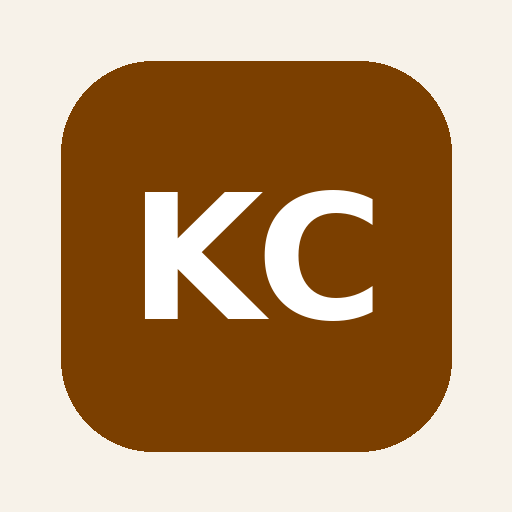
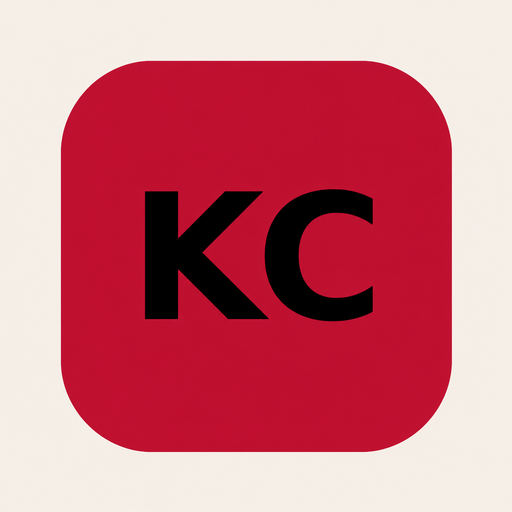
Add files via upload

diff --git a/index.html b/index.html
@@ -8,10 +8,10 @@
   <meta name="apple-mobile-web-app-status-bar-style" content="default">
   <meta name="apple-mobile-web-app-title" content="Kitchen Companion">
   <meta http-equiv="Cache-Control" content="no-cache, no-store, must-revalidate">
-  <link rel="manifest" href="app.webmanifest?v=0.12.9">
-  <link rel="apple-touch-icon" href="icon-180.png?v=0.12.9">
+  <link rel="manifest" href="app.webmanifest?v=0.12.10">
+  <link rel="apple-touch-icon" href="icon-180.png?v=0.12.10">
   <title>Kitchen Companion</title>
-  <link rel="stylesheet" href="styles.css?v=0.12.9">
+  <link rel="stylesheet" href="styles.css?v=0.12.10">
 </head>
 <body>
   <div class="app-shell">
@@ -139,7 +139,7 @@
 
   <dialog id="settingsDialog">
     <form method="dialog" class="dialog-card">
-      <h2>Settings</h2><div class="version-card"><strong>Kitchen Companion</strong><span>Engine version <b id="engineVersionLabel">0.12.9</b></span><span>Module format 1.x</span><button type="button" id="forceUpdateBtn" class="button secondary">Check for app update</button></div>
+      <h2>Settings</h2><div class="version-card"><strong>Kitchen Companion</strong><span>Engine version <b id="engineVersionLabel">0.12.10</b></span><span>Module format 1.x</span><button type="button" id="forceUpdateBtn" class="button secondary">Check for app update</button></div>
 
       <div class="setting-block">
         <strong>Profiles</strong>
@@ -423,9 +423,9 @@
   </template>
 
   <script src="https://cdn.jsdelivr.net/npm/tesseract.js@7.0.0/dist/tesseract.min.js"></script>
-  <script src="kitchen-engine.js?v=0.12.9"></script>
-  <script src="profile-storage.js?v=0.12.9"></script>
-  <script src="app.js?v=0.12.9"></script>
-  <script src="ocr-service.js?v=0.12.9"></script>
+  <script src="kitchen-engine.js?v=0.12.10"></script>
+  <script src="profile-storage.js?v=0.12.10"></script>
+  <script src="app.js?v=0.12.10"></script>
+  <script src="ocr-service.js?v=0.12.10"></script>
 </body>
 </html>

diff --git a/app.js b/app.js
@@ -2,7 +2,7 @@
   'use strict';
 
   const STORAGE_KEY = 'recipeEngineState.v1';
-  const ENGINE_VERSION = '0.12.9';
+  const ENGINE_VERSION = '0.12.10';
   const engine = new KitchenCompanionEngine();
   const MODULE_CATALOG_URL = './catalog.json';
   const builtInModule = {
@@ -819,7 +819,7 @@
 
   function registerServiceWorker() {
     if (!('serviceWorker' in navigator)) return;
-    navigator.serviceWorker.register('./service-worker.js?v=0.12.9').then(reg => reg.update()).catch(console.warn);
+    navigator.serviceWorker.register('./service-worker.js?v=0.12.10').then(reg => reg.update()).catch(console.warn);
     navigator.serviceWorker.addEventListener('controllerchange', () => {
       if (!sessionStorage.getItem('kc-reloaded')) {
         sessionStorage.setItem('kc-reloaded','1');
@@ -1374,7 +1374,7 @@ The recipe remains installed and can be restored from Settings → Hidden Recipe
   function formatClock(ms) { const total=Math.ceil(ms/1000), h=Math.floor(total/3600), m=Math.floor((total%3600)/60), s=total%60; return h?`${h}:${String(m).padStart(2,'0')}:${String(s).padStart(2,'0')}`:`${m}:${String(s).padStart(2,'0')}`; }
 
   function initBellAudio() {
-    bellAudio = new Audio('./alarm-bell.wav?v=0.12.9');
+    bellAudio = new Audio('./alarm-bell.wav?v=0.12.10');
     bellAudio.loop = true;
     bellAudio.preload = 'auto';
     bellAudio.volume = Number(state.settings.alarmVolume ?? 0.85);

diff --git a/service-worker.js b/service-worker.js
@@ -1,7 +1,7 @@
-const CACHE_NAME = 'kitchen-companion-v0.12.9';
+const CACHE_NAME = 'kitchen-companion-v0.12.10';
 const APP_SHELL = [
-  './', './index.html', './styles.css?v=0.12.9', './kitchen-engine.js?v=0.12.9', './profile-storage.js?v=0.12.9', './app.js?v=0.12.9',
-  './ocr-service.js?v=0.12.9', './alarm-bell.wav?v=0.12.9', './app.webmanifest?v=0.12.9', './icon-180.png?v=0.12.9', './icon-192.png?v=0.12.9', './icon-512.png?v=0.12.9'
+  './', './index.html', './styles.css?v=0.12.10', './kitchen-engine.js?v=0.12.10', './profile-storage.js?v=0.12.10', './app.js?v=0.12.10',
+  './ocr-service.js?v=0.12.10', './alarm-bell.wav?v=0.12.10', './app.webmanifest?v=0.12.10', './icon-180.png?v=0.12.10', './icon-192.png?v=0.12.10', './icon-512.png?v=0.12.10'
 ];
 
 self.addEventListener('install', event => {

diff --git a/profile-storage.js b/profile-storage.js
@@ -11,7 +11,7 @@
   const MAX_AUTOMATIC_BACKUPS = 5;
   const MAX_MANUAL_BACKUPS = 10;
   const STARTUP_BACKUP_INTERVAL_MS = 24 * 60 * 60 * 1000;
-  const APP_VERSION = '0.12.9';
+  const APP_VERSION = '0.12.10';
   const STORAGE_SCHEMA_VERSION = 2;
 
   const clone = value => JSON.parse(JSON.stringify(value));

diff --git a/RELEASE-NOTES.md b/RELEASE-NOTES.md
@@ -1,0 +1,7 @@
+# Kitchen Companion v0.12.10
+
+## Home Screen identity update
+
+- Home Screen installations now default to the full `Kitchen Companion` name.
+- Replaces the brown app icon with a red icon and black `KC` lettering.
+- Leaves profile colors and saved layout-color preferences unchanged.
